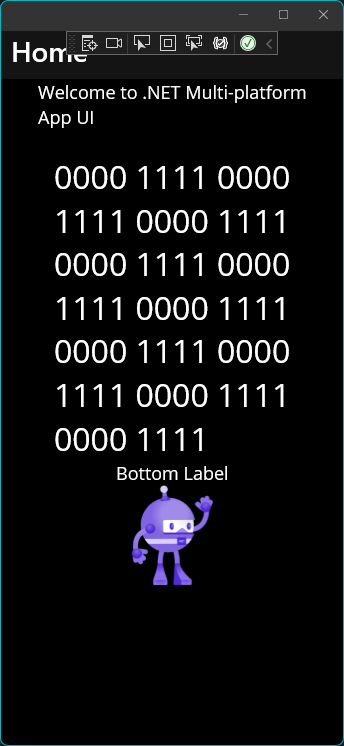
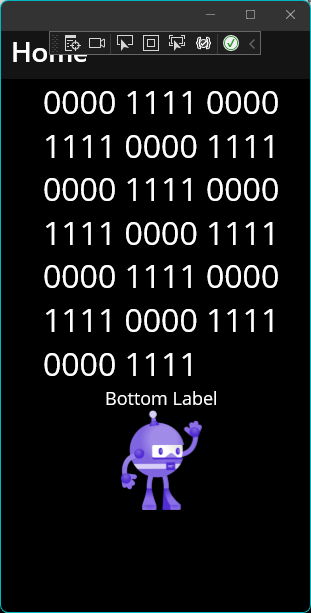
Added code showing the second case of the Grid layout bug.

Changed region(s): [[0.1447, 0.217, 0.8971, 0.8369], [0.0, 0.0, 1.0, 0.186], [0.0, 0.093, 1.0, 1.0]]

diff --git a/GridLayoutBug/MainPage.xaml b/GridLayoutBug/MainPage.xaml
@@ -4,44 +4,77 @@
              x:Class="GridLayoutBug.MainPage">
 
     <ScrollView>
-        <Grid>
-            <Grid.RowDefinitions>
-                <RowDefinition Height="Auto"></RowDefinition>
-                <RowDefinition Height="Auto"></RowDefinition>
-                <RowDefinition Height="Auto"></RowDefinition>
-            </Grid.RowDefinitions>
-            <Grid.ColumnDefinitions>
-                <ColumnDefinition Width="*"></ColumnDefinition>
-                <ColumnDefinition Width="Auto"></ColumnDefinition>
-            </Grid.ColumnDefinitions>
-            <VerticalStackLayout
-                Spacing="25"
-                Padding="30,0"
-                VerticalOptions="Center">
-                <Label
-                    Text="Welcome to .NET Multi-platform App UI"
+        <VerticalStackLayout>
+            <HorizontalStackLayout>
+                <Button x:Name="btnCase1" Text="Case 1" Clicked="btnCase1_Clicked"></Button>
+                <Button x:Name="btnCase2" Text="Case 2" Clicked="btnCase2_Clicked"></Button>
+            </HorizontalStackLayout>
+            <Grid x:Name="gridBugCase1">
+                <Grid.RowDefinitions>
+                    <RowDefinition Height="Auto"></RowDefinition>
+                    <RowDefinition Height="Auto"></RowDefinition>
+                    <RowDefinition Height="Auto"></RowDefinition>
+                </Grid.RowDefinitions>
+                <Grid.ColumnDefinitions>
+                    <ColumnDefinition Width="*"></ColumnDefinition>
+                    <ColumnDefinition Width="Auto"></ColumnDefinition>
+                </Grid.ColumnDefinitions>
+                <VerticalStackLayout
+                    Spacing="25"
+                    Padding="30,0"
+                    VerticalOptions="Center">
+                    <Label
+                        Text="0000 1111 0000 1111 0000 1111 0000 1111 0000 1111 0000 1111 0000 1111 0000 1111 0000 1111 0000 1111"
+                        FontSize="32"
+                        HorizontalOptions="Center" />
+                </VerticalStackLayout>
+                <Image Grid.Column="1"
+                    Source="dotnet_bot.png"
+                    HeightRequest="200"
+                    HorizontalOptions="Center" />
+                <Label Grid.Row="1"
+                    Text="Bottom Label"
                     FontSize="18"
                     HorizontalOptions="Center" />
-                <Label
-                    Text="0000 1111 0000 1111 0000 1111 0000 1111 0000 1111 0000 1111 0000 1111 0000 1111 0000 1111 0000 1111"
-                    FontSize="32"
+                <Image Grid.Row="2"
+                    Source="dotnet_bot.png"
+                    HeightRequest="100"
                     HorizontalOptions="Center" />
-
-
-            </VerticalStackLayout>
-            <Image Grid.Column="1"
-                Source="dotnet_bot.png"
-                HeightRequest="200"
-                HorizontalOptions="Center" />
-            <Label Grid.Row="1"
-                Text="Bottom Label"
-                FontSize="18"
-                HorizontalOptions="Center" />
-            <Image Grid.Row="2"
-                Source="dotnet_bot.png"
-                HeightRequest="100"
-                HorizontalOptions="Center" />
-        </Grid>
+            </Grid>
+            <Grid x:Name="gridBugCase2" IsVisible="false">
+                <Grid.RowDefinitions>
+                    <RowDefinition Height="Auto"></RowDefinition>
+                    <RowDefinition Height="Auto"></RowDefinition>
+                    <RowDefinition Height="Auto"></RowDefinition>
+                </Grid.RowDefinitions>
+                <Grid.ColumnDefinitions>
+                    <ColumnDefinition Width="*"></ColumnDefinition>
+                    <ColumnDefinition Width="Auto"></ColumnDefinition>
+                </Grid.ColumnDefinitions>
+                <VerticalStackLayout
+                    Grid.ColumnSpan="2"
+                    Spacing="25"
+                    Padding="30,0"
+                    VerticalOptions="Center">
+                    <Label
+                        Text="0000 1111 0000 1111 0000 1111 0000 1111 0000 1111 0000 1111 0000 1111 0000 1111 0000 1111 0000 1111"
+                        FontSize="32"
+                        HorizontalOptions="Center" />
+                </VerticalStackLayout>
+                <Image Grid.Column="1" Grid.Row="1"
+                    Source="dotnet_bot.png"
+                    HeightRequest="120"
+                    HorizontalOptions="Center" />
+                <Label Grid.Row="1"
+                    Text="Bottom Label"
+                    FontSize="18"
+                    HorizontalOptions="Center" />
+                <Image Grid.Row="2"
+                    Source="dotnet_bot.png"
+                    HeightRequest="100"
+                    HorizontalOptions="Center" />
+            </Grid>
+        </VerticalStackLayout>
     </ScrollView>
 
 </ContentPage>

diff --git a/GridLayoutBug/MainPage.xaml.cs b/GridLayoutBug/MainPage.xaml.cs
@@ -6,5 +6,16 @@
         {
             InitializeComponent();
         }
+        private void btnCase1_Clicked(object sender, EventArgs e)
+        {
+            gridBugCase1.IsVisible = true;
+            gridBugCase2.IsVisible = false;
+        }
+
+        private void btnCase2_Clicked(object sender, EventArgs e)
+        {
+            gridBugCase1.IsVisible = false;
+            gridBugCase2.IsVisible = true;
+        }
     }
 }
